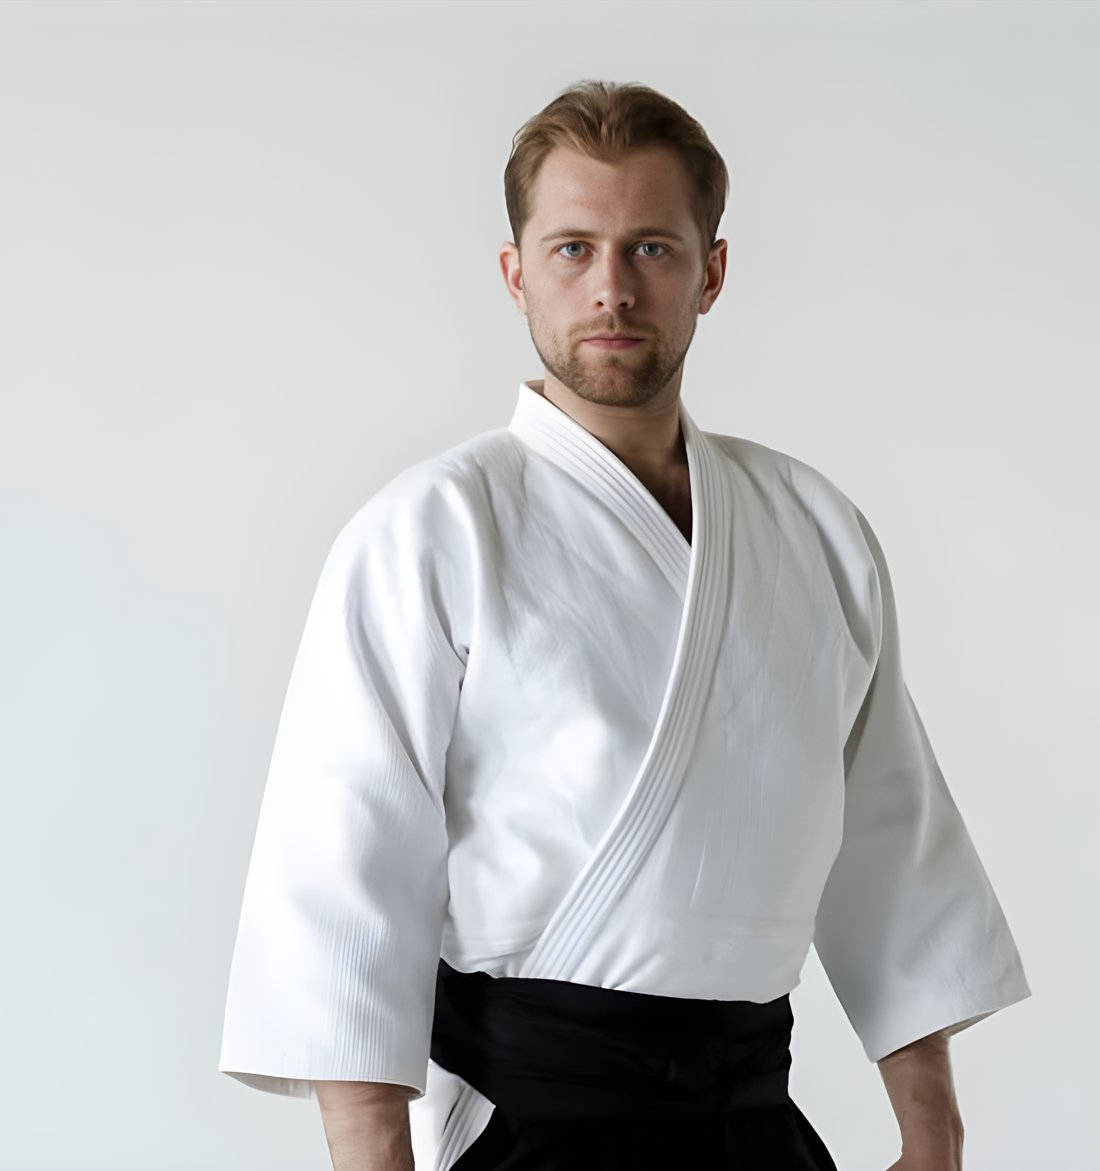
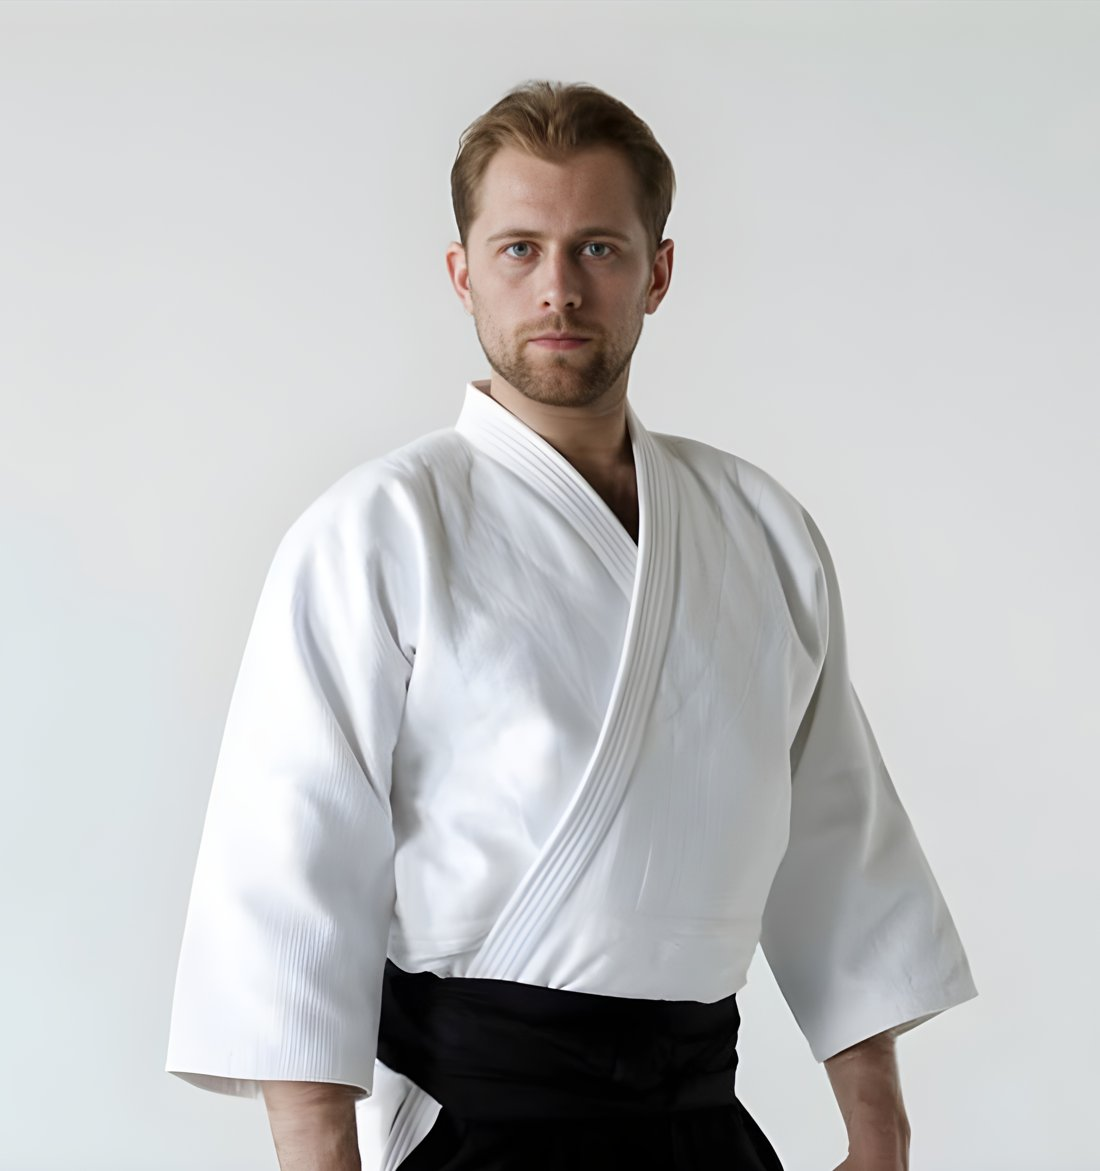
Био: обложка — равные поля от рукавов (перекадровка по фактическим границам фигуры)

Changed region(s): [[0.1545, 0.0615, 0.9582, 1.0]]

diff --git a/site/ivan-egorov/index.html b/site/ivan-egorov/index.html
@@ -10,10 +10,10 @@
 <meta property="og:type" content="profile"/>
 <meta property="og:title" content="Иван Егоров — биография | Спорт как искусство"/>
 <meta property="og:description" content="Путь мастера айкидо: от семейной традиции до 5 дана Тэн Шин айкидо и премии «Торнадо». Ученик Стивена Сигала, главный тренер Федерации айкидо России."/>
-<meta property="og:image" content="https://egorovaiki.ru/images/egorov/cover.jpg"/>
+<meta property="og:image" content="https://egorovaiki.ru/images/egorov/cover.jpg?v=2"/>
 <link rel="preload" href="../fonts/xn7_YHE41ni1AdIRqAuZuw1Bx9mbZk79FO_F.woff2" as="font" type="font/woff2" crossorigin="anonymous"/>
 <link rel="preload" href="../fonts/Yq6F-LOTXCb04q32xlpat-6uR42XTqtG6yrx040.woff2" as="font" type="font/woff2" crossorigin="anonymous"/>
-<link rel="preload" href="../images/egorov/cover.jpg" as="image"/>
+<link rel="preload" href="../images/egorov/cover.jpg?v=2" as="image"/>
 <link rel="icon" type="image/png" sizes="32x32" href="../favicon-v5-32.png"/>
 <link rel="icon" type="image/png" sizes="192x192" href="../favicon-v5-192.png"/>
 <link rel="apple-touch-icon" href="../apple-touch-icon-v5.png"/>
@@ -30,7 +30,7 @@
   "birthDate": "1989-10-13",
   "jobTitle": "Главный тренер Федерации айкидо России",
   "description": "Основатель проекта «Спорт как искусство». Мастер айкидо, 5 дан Тэн Шин айкидо, мастер спорта России. Главный тренер Федерации айкидо России, вице-президент Федерации Айкидо Чеченской Республики, ученик и официальный представитель Стивена Сигала в России.",
-  "image": "https://egorovaiki.ru/images/egorov/cover.jpg",
+  "image": "https://egorovaiki.ru/images/egorov/cover.jpg?v=2",
   "url": "https://egorovaiki.ru/ivan-egorov/",
   "worksFor": [
     {"@type": "Organization", "name": "Федерация айкидо России"},
@@ -85,7 +85,7 @@
         </ul>
       </div>
       <figure class="ie-hero-photo">
-        <img src="../images/egorov/cover.jpg" alt="Иван Егоров — основатель проекта «Спорт как искусство»" width="960" height="1171"/>
+        <img src="../images/egorov/cover.jpg?v=2" alt="Иван Егоров — основатель проекта «Спорт как искусство»" width="960" height="1171"/>
         <figcaption>Основатель проекта «Спорт как искусство»</figcaption>
       </figure>
     </div>
